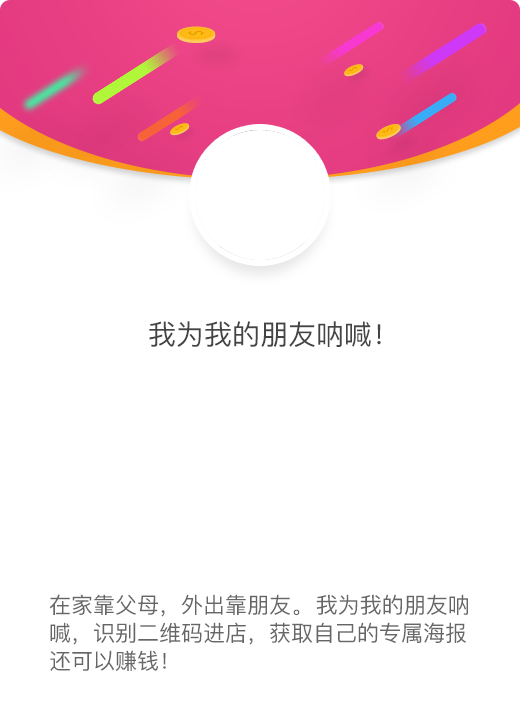
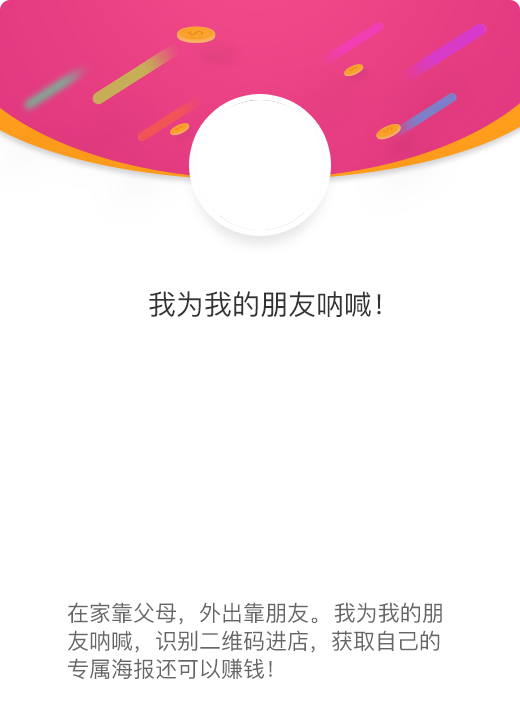
专属海报

diff --git a/shop-mall/src/main/java/com/masiis/shop/web/mall/controller/shop/SfShopController.java b/shop-mall/src/main/java/com/masiis/shop/web/mall/controller/shop/SfShopController.java
@@ -36,6 +36,8 @@ import javax.swing.*;
 import java.awt.*;
 import java.awt.image.BufferedImage;
 import java.io.File;
+import java.text.SimpleDateFormat;
+import java.util.Date;
 import java.util.HashMap;
 import java.util.List;
 import java.util.Map;
@@ -141,9 +143,9 @@ public class SfShopController extends BaseController {
             positionMap.put("bgImg-left", 0);
             positionMap.put("bgImg-top", 0);
             positionMap.put("qrCodeImg-left", 160);
-            positionMap.put("qrCodeImg-top", 368);
+            positionMap.put("qrCodeImg-top", 338);
             positionMap.put("content-left", 520 / 2 - content.length() / 2 * 28 - (content.length() % 2 * 14));
-            positionMap.put("content-top", 306);
+            positionMap.put("content-top", 270);
             drawPoster(headImgPath, qrCodePath, bgPath, new String[]{content}, shopPosterPath, positionMap, new Font("微软雅黑", Font.PLAIN, 28), new Color(247, 60, 140));
 
 
@@ -190,6 +192,18 @@ public class SfShopController extends BaseController {
         for (int i = 0; i < content.length; i++) {
             g.drawString(content[i], positionMap.get("content-left"), positionMap.get("content-top") + (font.getSize() + 15) * i);
         }
+
+        Date curDate = new Date();
+        SimpleDateFormat sdf = new SimpleDateFormat("yyyy.MM.dd");
+        String startTime = sdf.format(curDate);
+        curDate.setDate(curDate.getDate()+30);
+        String endDate = sdf.format(curDate);
+
+        g.setFont(new Font("华文细黑", Font.PLAIN, 20));
+        g.setColor(new Color(51, 51, 51));
+        g.drawString("该二维码有效期为", 180, 550);
+        g.drawString(startTime+"-"+endDate, 140, 580);
+
         g.dispose();
 
         try {
